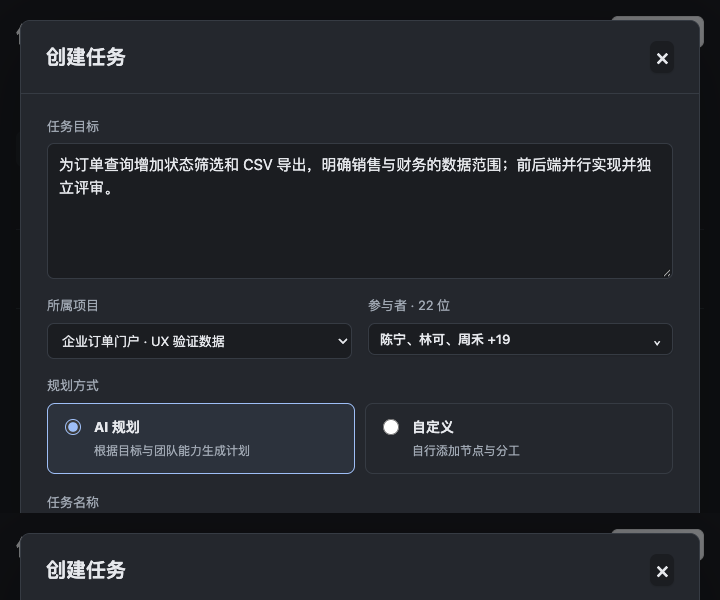
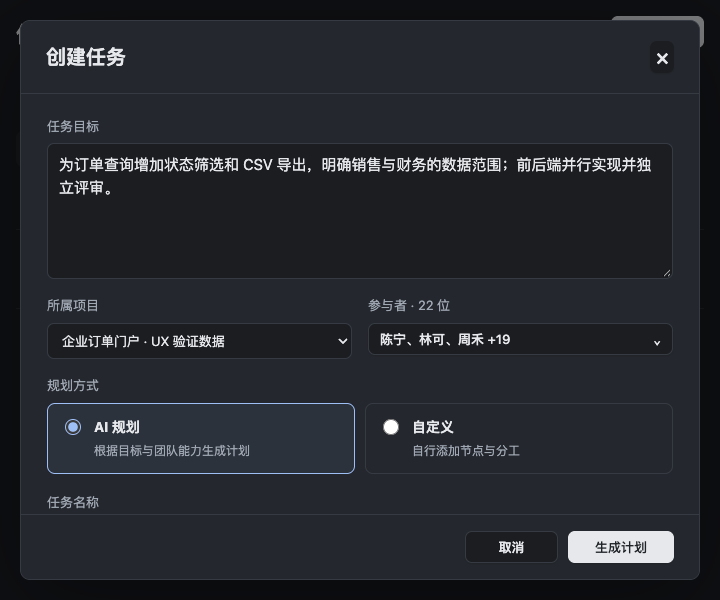
fix(client): 切出创建页面后阻止迟到响应启动规划

Changed region(s): [[0.0306, 0.84, 0.9778, 1.0]]

diff --git a/packages/client/src/workbench/WorkbenchPage.tsx b/packages/client/src/workbench/WorkbenchPage.tsx
@@ -50,6 +50,13 @@ export function WorkbenchPage({
   const [activeTaskId, setActiveTaskId] = useState<string | null>(null);
   const [initialPlanning, setInitialPlanning] = useState<InitialPlanning | null>(null);
   const submitting = useRef(false);
+  const pageGeneration = useRef(0);
+  useEffect(
+    () => () => {
+      pageGeneration.current += 1;
+    },
+    [],
+  );
   useEffect(() => () => initialPlanning?.controller.abort(), [initialPlanning]);
   const [projectFilter, setProjectFilter] = useState('');
   const [search, setSearch] = useState('');
@@ -143,6 +150,7 @@ export function WorkbenchPage({
     }
   }
   async function createTask(draft: Extract<Dialog, { kind: 'task' }>) {
+    const generation = pageGeneration.current;
     const goal = draft.value.goal.trim();
     if (!goal) {
       setDialogError('请描述这次要完成的目标。');
@@ -161,7 +169,9 @@ export function WorkbenchPage({
       title: draft.value.title.trim() || goal.split('\n')[0]!.slice(0, 60),
     };
     const committed = await submit({ type: 'save-task', task });
-    if (!committed) return;
+    // The Host may have saved after this panel was removed. Keep that draft, but do not
+    // start a paid planning request or navigate from a stale create-form submission.
+    if (!committed || generation !== pageGeneration.current) return;
     if (draft.planning === 'ai') {
       const controller = new AbortController();
       const result: InitialPlanning['result'] = Promise.resolve()

diff --git a/packages/client/tests/browser/harness.jsx b/packages/client/tests/browser/harness.jsx
@@ -1,5 +1,5 @@
 import { createRoot } from 'react-dom/client';
-import { StrictMode } from 'react';
+import { StrictMode, useState } from 'react';
 import { WorkbenchPage } from '../../src/workbench/WorkbenchPage.js';
 import { createWorkbenchApi } from '../../src/workbench/api.js';
 import styles from '../../src/workbench/workbench.css';
@@ -44,7 +44,21 @@ systemTheme.addEventListener('change', reflectTheme);
 const style = document.createElement('style');
 style.textContent = `${flowStyles}\n${styles}`;
 document.head.append(style);
-const content = <WorkbenchPage api={api} initialSection="tasks" appearance={appearance} />;
+function MountProbe() {
+  const [mounted, setMounted] = useState(true);
+  return (
+    <>
+      <button onClick={() => setMounted(false)}>切出工作台</button>
+      <button onClick={() => setMounted(true)}>返回工作台</button>
+      {mounted && <WorkbenchPage api={api} initialSection="tasks" appearance={appearance} />}
+    </>
+  );
+}
+const content = new URL(location.href).searchParams.has('mount-probe') ? (
+  <MountProbe />
+) : (
+  <WorkbenchPage api={api} initialSection="tasks" appearance={appearance} />
+);
 createRoot(document.getElementById('root')).render(
   new URL(location.href).searchParams.has('strict') ? <StrictMode>{content}</StrictMode> : content,
 );

diff --git a/tests/README.md b/tests/README.md
@@ -14,24 +14,24 @@ pnpm exec playwright install --with-deps chromium
 pnpm test:ui
 ```
 
-`test:ui` 先构建工作台，再运行 Chromium 浅色和深色场景（15 个场景 × 2 个主题）。统一使用 Playwright 的 `chromium` channel，即完整 Chromium 的新 headless 模式；本地与 CI 使用相同配置，不依赖已安装的 Chrome。已完成构建时可用 `pnpm test:ui:run`；只跑一组用 `pnpm test:ui:run --project=chromium-light`。测试文件在 `packages/client/tests/browser/`，不属于 `pnpm test` 的 Node 用例发现范围。
+`test:ui` 先构建工作台，再运行 Chromium 浅色和深色场景（16 个场景 × 2 个主题）。统一使用 Playwright 的 `chromium` channel，即完整 Chromium 的新 headless 模式；本地与 CI 使用相同配置，不依赖已安装的 Chrome。已完成构建时可用 `pnpm test:ui:run`；只跑一组用 `pnpm test:ui:run --project=chromium-light`。测试文件在 `packages/client/tests/browser/`，不属于 `pnpm test` 的 Node 用例发现范围。
 
 临时静态服务由 Playwright 启停，只监听 `127.0.0.1:8796`；端口占用直接失败，不复用未知进程。需要换端口时设置 `ZHUMA_UI_TEST_PORT`。它只提供测试页面和打包脚本，未配置的 API 返回 404。所有 RPC 在每个用例内拦截；非本地网络请求、意外 API 或页面异常都会使测试失败。
 
-| 场景           | 行为断言                                                                                                 |
-| -------------- | -------------------------------------------------------------------------------------------------------- |
-| 任务创建与编辑 | 负责人、执行者、多人评审与交付内容保存后刷新重开；嵌套人员选择取消不污染外层草稿                         |
-| 主题           | 浅色/深色/系统切换保留未保存内容、节点选择和画布位置，不调用保存或规划                                   |
-| 规划连续调整   | 后续请求引用当前未应用提案；十节点、依赖和非目标分工保留；失败、取消与迟到响应保留上次草案               |
-| 冲突恢复       | 关闭错误提示后仍有恢复入口；取消确认保留预览，接受后读取最新快照                                         |
-| 目录与表单     | 26 人目录筛选、长中文能力搜索多选；取消/错误保留原值和输入；保存中禁止 Escape 关闭；720×450 仍能操作保存 |
-| 连接状态       | 等待、错误重试、空目录和创建入口                                                                         |
-| 三层工作树     | 全树点击保持、路径/每层选择恢复、搜索/折叠/依赖跳转不写入、正常入口保存重开                              |
-| 定位失效       | 新版本删除子树后回到可见上级，搜索和右栏不残留已不可见内容                                               |
-| 小屏树导航     | 720×600 键盘定位/进入，抽屉关闭与进入本层后恢复触发按钮焦点                                              |
-| 长任务表单     | 720×450、26 位参与者，真实滚轮滚动正文并露出末项；逐项 Tab 到负责人，footer 贴底且不随焦点偏移           |
-| 目标创建与恢复 | AI 默认、一次保存后直达规划；创建/规划失败重试、取消迟到响应、同一任务转手动、刷新重开不自动规划         |
-| 负责人信息栏   | 空值可选、标签与按钮同行、小屏长姓名不越界、只读可读且无保存或模型副作用                                 |
+| 场景           | 行为断言                                                                                                                            |
+| -------------- | ----------------------------------------------------------------------------------------------------------------------------------- |
+| 任务创建与编辑 | 负责人、执行者、多人评审与交付内容保存后刷新重开；嵌套人员选择取消不污染外层草稿                                                    |
+| 主题           | 浅色/深色/系统切换保留未保存内容、节点选择和画布位置，不调用保存或规划                                                              |
+| 规划连续调整   | 后续请求引用当前未应用提案；十节点、依赖和非目标分工保留；失败、取消与迟到响应保留上次草案                                          |
+| 冲突恢复       | 关闭错误提示后仍有恢复入口；取消确认保留预览，接受后读取最新快照                                                                    |
+| 目录与表单     | 26 人目录筛选、长中文能力搜索多选；取消/错误保留原值和输入；保存中禁止 Escape 关闭；720×450 仍能操作保存                            |
+| 连接状态       | 等待、错误重试、空目录和创建入口                                                                                                    |
+| 三层工作树     | 全树点击保持、路径/每层选择恢复、搜索/折叠/依赖跳转不写入、正常入口保存重开                                                         |
+| 定位失效       | 新版本删除子树后回到可见上级，搜索和右栏不残留已不可见内容                                                                          |
+| 小屏树导航     | 720×600 键盘定位/进入，抽屉关闭与进入本层后恢复触发按钮焦点                                                                         |
+| 长任务表单     | 720×450、26 位参与者，真实滚轮滚动正文并露出末项；逐项 Tab 到负责人，footer 贴底且不随焦点偏移                                      |
+| 目标创建与恢复 | AI 默认、一次保存后直达规划；保存悬挂期间卸载/重挂载不启动规划、创建/规划失败重试、取消迟到响应、同一任务转手动、刷新重开不自动规划 |
+| 负责人信息栏   | 空值可选、标签与按钮同行、小屏长姓名不越界、只读可读且无保存或模型副作用                                                            |
 
 创建用例另加载显式 development bundle，以 React StrictMode 的真实 effect 重放检查首轮规划只启动一次；其他场景仍运行 production bundle。
 

diff --git a/docs/review/entry/README.md b/docs/review/entry/README.md
@@ -4,7 +4,7 @@
 
 点击“生成计划”后先持久化一次草稿，再由该次用户提交启动既有规划 API，直接进入规划面板。目标/项目/参与者在生成前可调整，任务名称可省略，负责人仍由人选择；AI 和手动入口复用同一工作流编辑器。无可用参与者时就地提示。没有假装已完成模板选择，模板映射应用保留为后续独立范围。
 
-失败保留同一任务、目标与参与者，可重试或转手动。创建响应中断时重试复用任务 ID、请求 ID 和版本；未确认保存成功不调用模型。取消/离开使未完成规划失效；迟到结果不能覆盖手动编辑。刷新和重开不自动规划。生成、应用、确认及执行仍分开。
+失败保留同一任务、目标与参与者，可重试或转手动。创建响应中断时重试复用任务 ID、请求 ID 和版本；未确认保存成功不调用模型。保存期间切出整个工作台会使该次创建失效；迟到保存只留下 Host 草稿，不启动模型或旧页面导航。取消/离开使未完成规划失效；迟到结果不能覆盖手动编辑。刷新和重开不自动规划。生成、应用、确认及执行仍分开。
 
 负责人信息栏修复继承纵向 `.zm-field` 导致的错位：标签、姓名和箭头同行，长姓名截断但保留完整 title，小屏整组换行，空值与只读状态也有明确呈现。参与者选择按钮只显示前三位加剩余数量，完整选择在统一目录内查看；多人评审选择仍明确“全部通过后交接”。
 
@@ -28,7 +28,7 @@
 ## 行为与真实边界
 
 - 代码/契约：`pnpm check`，134 项纯逻辑测试及边界、格式、类型检查。
-- 浏览器：15 场景 × 浅深主题，目标创建、首轮 StrictMode 重放、保存失败、规划失败、取消迟到、转手动、刷新/重开及原有交互回归。页头另检查 420px 长姓名、空值与只读。StrictMode 使用 development bundle，其他场景使用 production bundle。
+- 浏览器：16 场景 × 浅深主题，目标创建、首轮 StrictMode 重放、保存期间卸载重挂载、保存失败、规划失败、取消迟到、转手动、刷新/重开及原有交互回归。页头另检查 420px 长姓名、空值与只读。StrictMode 使用 development bundle，其他场景使用 production bundle。
 - 实际官方 DSH Host：核对隔离工作区与固定上游版本，更新本批 Client bundle；通过真实 command 创建 1 个任务、应用草案、手动编辑保存，共 3 次真实命令，刷新重开确认磁盘状态。两次规划请求仅在浏览器边界重放“失败→成功”，没有真实模型调用；重试使用相同任务，目标与参与者保持。没有确认执行或改动 B 服务。
 - 未完成：真实模型质量提升、模板应用、实际执行与交付评审、多用户账号空间、安装版桌面。原生 select 展开定位/字号按 A-UI-controls 独立处理，不能用本批关闭状态截图认证。
 
